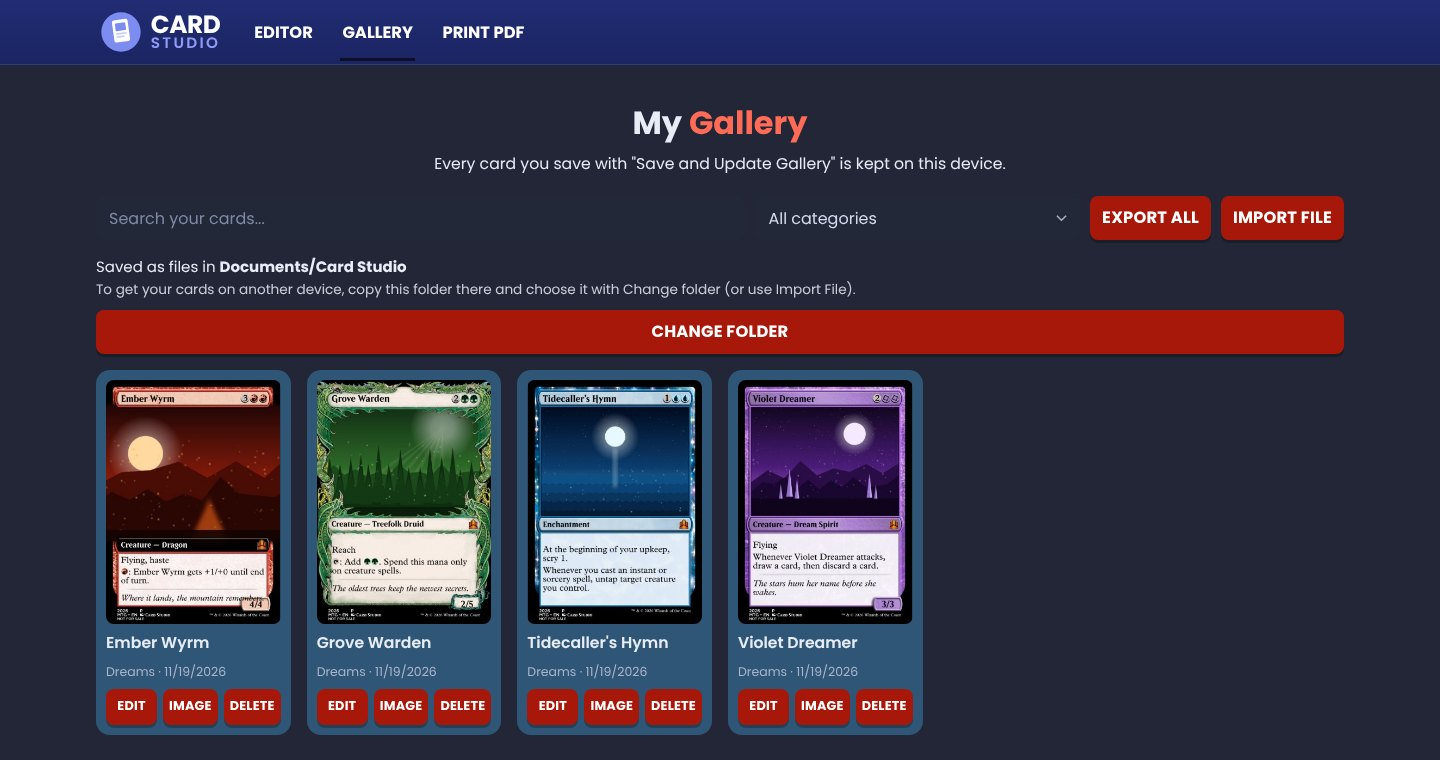
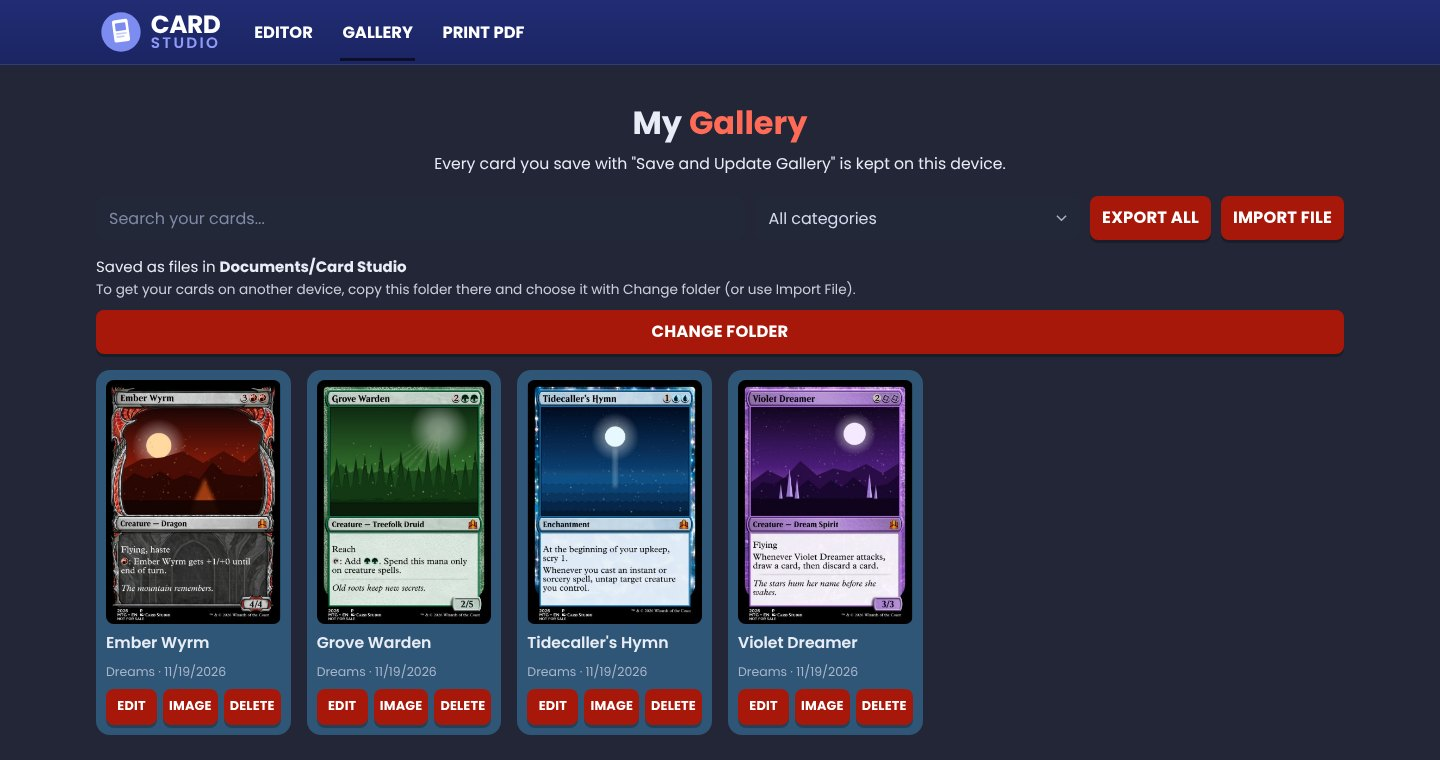
README: redo demo images so every card renders cleanly (draft for review)
Claude-Session: https://claude.ai/code/session_014MCKTgKxzGfbXcnL91UVA2

Changed region(s): [[0.0625, 0.4842, 0.3438, 0.8171]]

diff --git a/README.md b/README.md
@@ -26,7 +26,7 @@
 </p>
 
 <p align="center">
-  <img src="docs/assets/hero.jpg" width="900" alt="The Card Studio editor on desktop: a finished card next to the frame picker and the list of the card's layers">
+  <img src="docs/assets/hero.jpg" width="900" alt="The Card Studio editor on desktop: a finished card next to the editing tabs and the frame picker">
 </p>
 
 ## Install in 30 seconds
@@ -45,7 +45,7 @@ To update, install the new version over the old one: your cards stay where they 
 ### Hundreds of frames
 
 <p align="center">
-  <img src="docs/assets/frames.gif" width="300" alt="The same card shown with six different frame styles, one after the other">
+  <img src="docs/assets/frames.gif" width="300" alt="The same card shown with seven different frame styles, one after the other">
 </p>
 
 382 frame packs, sorted into groups and searchable. Stack frames as layers, reorder them, change their opacity and position, and use masks to apply a frame to only part of the card. You can also add your own frame images.
